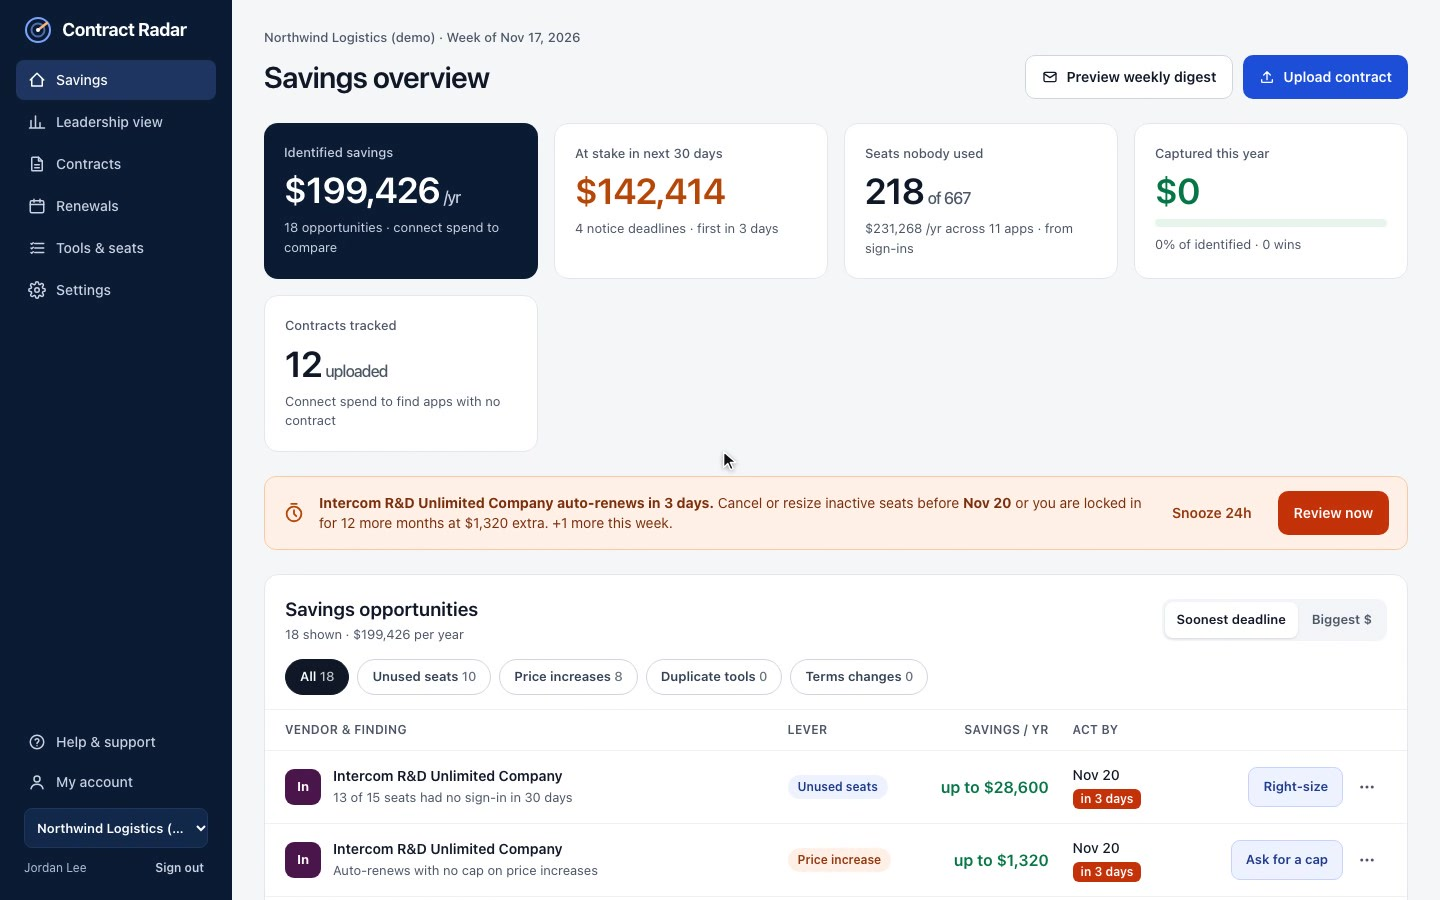
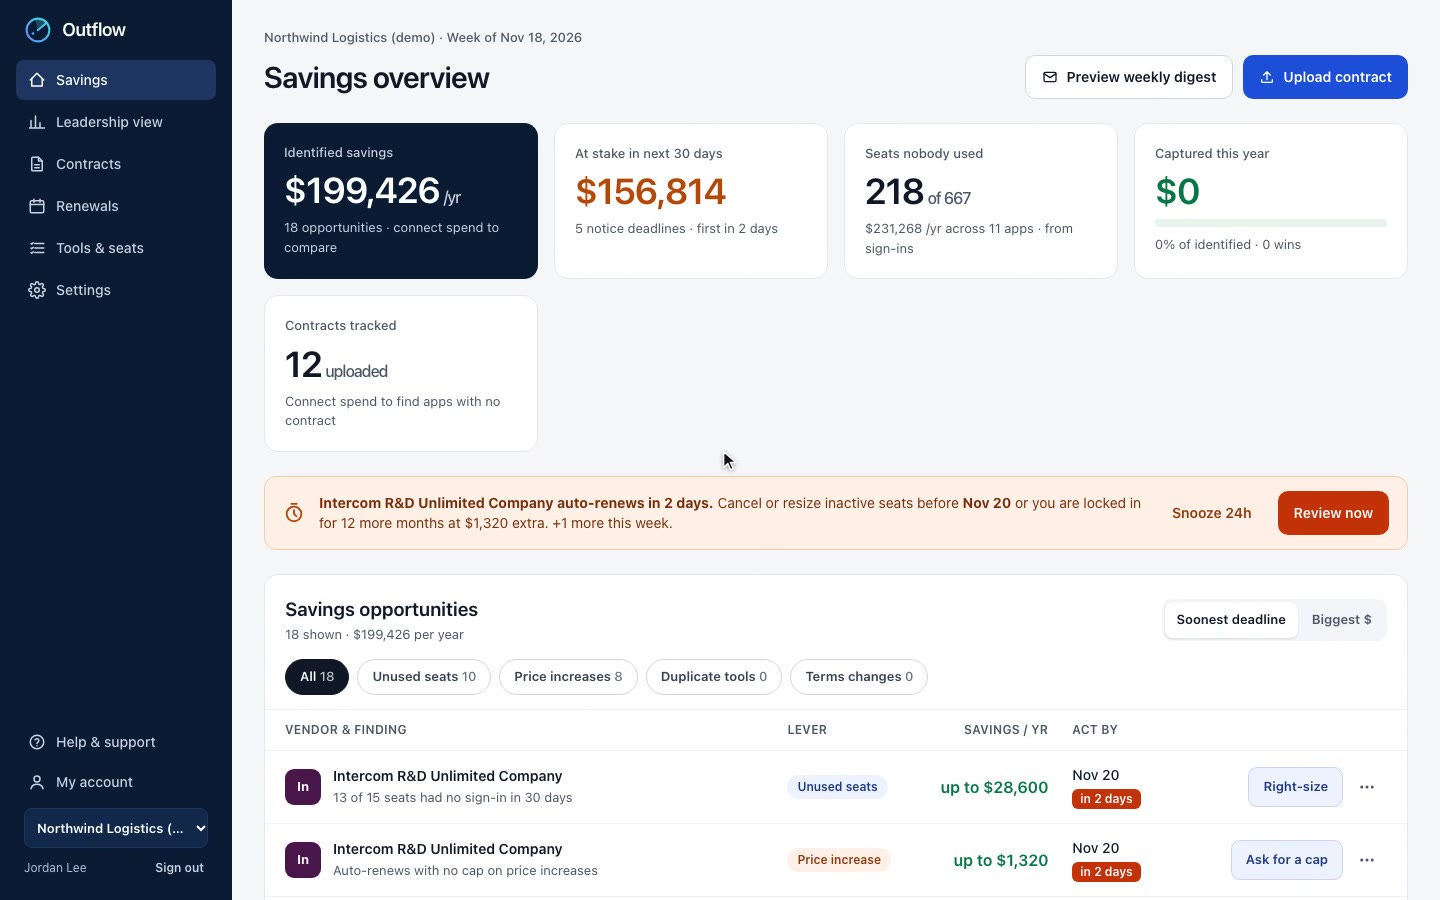
Onboarding video: re-recorded for the Outflow rebrand, new tour poster
Claude-Session: https://claude.ai/code/session_01VoGNbdiQGQ7bgFkdV6QqL5

diff --git a/docs/onboarding-video.md b/docs/onboarding-video.md
@@ -1,6 +1,6 @@
 # Onboarding video
 
-A 6½-minute guided tour for new users (re-recorded 2026-11-17 for the grouped sidebar, first sign-in tour and Help & support), recorded from the real app with a test account and the Northwind demo workspace.
+A 6½-minute guided tour for new users (re-recorded 2026-11-17 for the grouped sidebar, first sign-in tour and Help & support, and again on 2026-11-18 for the Outflow rebrand: new name in the narration, Outflow logo and Sora title cards), recorded from the real app with a test account and the Northwind demo workspace.
 
 - **Video:** `contract-radar-onboarding.mp4` (1440x900). Kept out of git because of its size. The Help page and the first sign-in tour play it from the public Supabase Storage bucket `help` (`help/contract-radar-onboarding.mp4`, a 34 MB crf 22 copy). A 24 MB sharing copy and the edit scripts (`edit/build.py`, `edit/upload.mjs`) are on Alex's Mac in `Claude Code/onboarding-video/`.
 - **Voice:** Kokoro text-to-speech (voice `af_heart`), one clip per scene.
